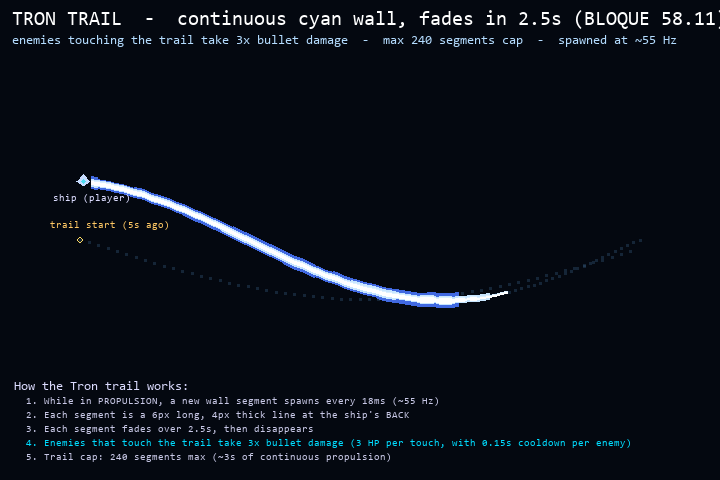
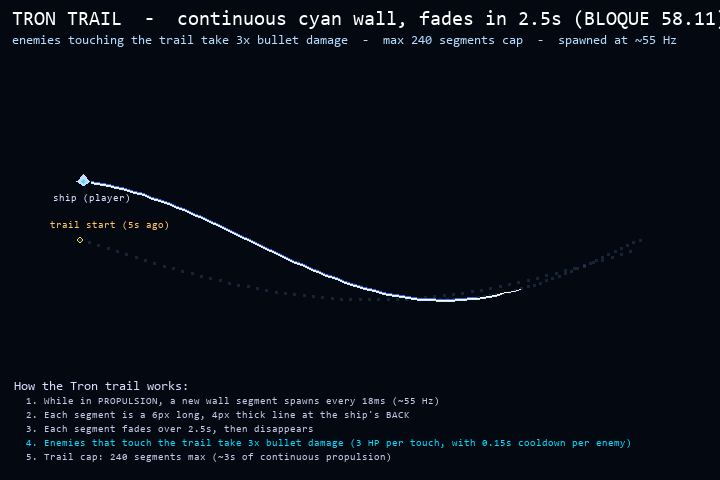
fix BLOQUE 58.31: Tron trail ultra-thin (1-2 px) matching laser thickness

Changed region(s): [[0.1222, 0.375, 0.7028, 0.6562]]

diff --git a/src/systems/tron_trail.py b/src/systems/tron_trail.py
@@ -1,24 +1,23 @@
-"""BLOQUE 58.11 + 58.22 + 58.24 + 58.25 + 58.27 + 58.28 + 58.29 + 58.30: Tron-style light trail for the player PROPULSION.
+"""BLOQUE 58.11 + 58.22 + 58.24 + 58.25 + 58.27 + 58.28 + 58.29 + 58.30 + 58.31: Tron-style light trail for the player PROPULSION.
 
 When the player enters PROPULSION state, the ship leaves a continuous
 glowing wall behind it (think Tron lightcycle / drift_loud reference).
 
-BLOQUE 58.30: blue-white neon tube.
-  The user wanted the trail to look like the yellow line in their
-  reference screenshot — a thin neon line where:
-    - The OUTER EDGES of the line are ROYAL BLUE
-    - The CENTER of the line is WHITE-HOT
-    - Smooth gradient from blue (edges) to white (center)
-  This is the classic "neon tube / plasma beam" look — like a glass
-  tube with white-hot plasma inside and a blue glass shell. The
-  per-layer colors are:
-    GLOW (outermost): royal blue (65, 105, 225)
-    HALO:             blue-white
-    BODY:             light cyan-white
-    CORE (innermost): pure white
+BLOQUE 58.31: trail thickness matches the LASER (1-2 px core, 2-3 px glow).
+  The user pointed out the trail was still thicker than the continuous
+  laser the ship fires. Looking at the laser: it's a 1 px white core
+  with a 2-3 px soft cyan glow. Very thin.
+  Fix: dropped the multi-streak (was ±2 px offsets) and reduced
+  every layer width:
+    CORE: 1 px (single-pixel bright white line)
+    BODY: 1 px (slightly more visible due to higher alpha)
+    HALO: 2 px (soft cyan-white)
+    GLOW: 3 px (royal blue, soft)
+  Total visible width: 3 px (matching the laser). The cross-section
+  gradient is preserved: royal blue (outer) -> white (center).
   Plus a "head bloom" of bright white at the very tip.
 
-BLOQUE 58.29 history: thin trail (matching engine fire thickness).
+BLOQUE 58.30: blue-white neon tube.
   BLOQUE 58.28 went too far in the opposite direction: it made the
   trail a THICK puff (core=4, body=8, halo=16, glow=24) thinking the
   user wanted a thick beam. The user actually wanted a THIN line
@@ -322,25 +321,17 @@ class TronTrail:
     ) -> None:
         """Render the trail to the target surface.
 
-        BLOQUE 58.30: blue + white neon-tube beam.
-
-        The user wants a thin line (BLOQUE 58.29) with a
-        CROSS-SECTION gradient:
-          - Outer edges of the line: ROYAL BLUE
-          - Center of the line: WHITE
-          - Smooth gradient blue -> white from outside in
-        Like a glass tube with white-hot plasma inside and a blue
-        glass shell. Each layer has a fixed color from the
-        gradient (no longitudinal shift anymore):
-          GLOW (outermost, widest,  dimmest): royal blue
-          HALO:                                blue-white
-          BODY:                                light cyan-white
-          CORE (innermost, thinnest, brightest): white
-
-        The fade with life is still steep (life^1.5..2.0) so the
-        tail dissolves quickly. Multi-streak is preserved but
-        tight (offsets +/- 1 and +/- 2 px) so the line stays
-        narrow.
+        BLOQUE 58.31: ultra-thin beam (matches the laser thickness).
+        The user wanted the trail to be AS THIN AS the laser
+        (1-2 px white core, 2-3 px soft glow). Dropped the
+        multi-streak entirely and reduced all widths:
+          CORE: 1 px
+          BODY: 1 px
+          HALO: 2 px
+          GLOW: 3 px
+        The cross-section gradient is preserved (royal blue
+        outside, white inside), but the line is now the same
+        thickness as the continuous laser.
         """
         if len(self.segments) < 1:
             return
@@ -357,145 +348,65 @@ class TronTrail:
         if not pts:
             return
 
-        # -----------------------------------------------------------------
-        # Multi-streak: 5 thin parallel lines with small perpendicular offsets
-        # -----------------------------------------------------------------
-        # BLOQUE 58.29: tight offsets to keep the line NARROW.
-        # BLOQUE 58.30: tighter (1 px) so the blue/white gradient
-        # reads clearly through the line.
-        streak_configs = [
-            (-2.0, 0.25, 1.0),  # far-left ghost (very faint, royal blue)
-            (-1.0, 0.5,  1.0),  # left ghost
-            ( 0.0, 1.0,  1.0),  # center bright streak (white)
-            (+1.0, 0.5,  1.0),  # right ghost
-            (+2.0, 0.25, 1.0),  # far-right ghost (very faint, royal blue)
-        ]
-
-        def _draw_pass(
-            width: int,
-            base_alpha: float,
-            life_curve_power: float,
-            color: tuple[int, int, int],
-            width_expand: float = 0.0,
+        def _draw_line(
+            x1: int, y1: int, x2: int, y2: int,
+            width: int, color: tuple[int, int, int],
+            alpha: int, life_curve_power: float, avg_life: float,
         ) -> None:
-            """Draw one "pass" (a layer of the neon beam) across all streaks.
+            """Draw one polyline segment with the given color/alpha.
 
-            Args:
-                width: base line width in px.
-                base_alpha: peak alpha at life=1.
-                life_curve_power: alpha is multiplied by life^power.
-                color: the RGB color for THIS layer (per the blue->white
-                       cross-section gradient).
-                width_expand: how much the width GROWS as life decreases.
+            The alpha is already computed; we just draw.
             """
-            for perp_off, alpha_mult, width_mult in streak_configs:
-                for i in range(len(pts) - 1):
-                    x1, y1, a1 = pts[i]
-                    x2, y2, a2 = pts[i + 1]
-                    avg_life = (a1 + a2) * 0.5
-                    life_width = 1.0 + (1.0 - avg_life) * width_expand
-                    actual_width = max(1, int(width * life_width * width_mult))
-                    life_factor = avg_life ** life_curve_power
-                    alpha = int(min(255.0, base_alpha * life_factor * alpha_mult))
-                    if alpha < 2:
-                        continue
-                    if perp_off != 0.0:
-                        dx = x2 - x1
-                        dy = y2 - y1
-                        seg_len = math.hypot(dx, dy)
-                        if seg_len > 0.01:
-                            perp_x = -dy / seg_len
-                            perp_y = dx / seg_len
-                            ox1 = int(perp_x * perp_off)
-                            oy1 = int(perp_y * perp_off)
-                            ox2 = ox1
-                            oy2 = oy1
-                        else:
-                            ox1 = oy1 = ox2 = oy2 = 0
-                    else:
-                        ox1 = oy1 = ox2 = oy2 = 0
-                    try:
-                        pygame.draw.line(
-                            target,
-                            (color[0], color[1], color[2], alpha),
-                            (x1 + ox1, y1 + oy1),
-                            (x2 + ox2, y2 + oy2),
-                            actual_width,
-                        )
-                    except TypeError:
-                        pygame.draw.line(
-                            target,
-                            color,
-                            (x1 + ox1, y1 + oy1),
-                            (x2 + ox2, y2 + oy2),
-                            actual_width,
-                        )
+            if alpha < 2:
+                return
+            try:
+                pygame.draw.line(
+                    target,
+                    (color[0], color[1], color[2], alpha),
+                    (x1, y1), (x2, y2),
+                    width,
+                )
+            except TypeError:
+                pygame.draw.line(target, color, (x1, y1), (x2, y2), width)
 
-        # BLOQUE 58.30: cross-section blue -> white gradient.
-        # GLOW is the OUTERMOST layer -> royal blue.
-        # CORE is the INNERMOST layer -> pure white.
-        # Each layer has a fixed color (no longitudinal shift).
-        _draw_pass(width=8, base_alpha=22, life_curve_power=1.5,
-                   color=self.color_edge, width_expand=1.2)   # royal blue glow
-        _draw_pass(width=5, base_alpha=45, life_curve_power=1.6,
-                   color=self.color_mid, width_expand=0.7)    # blue-white halo
-        _draw_pass(width=3, base_alpha=110, life_curve_power=1.7,
-                   color=(220, 240, 255), width_expand=0.3)    # light cyan-white body
-        _draw_pass(width=2, base_alpha=180, life_curve_power=2.0,
-                   color=self.color_core, width_expand=0.0)   # white core
+        # BLOQUE 58.31: 4 passes, NO multi-streak. The widths match
+        # the continuous laser (1-2 px core, 2-3 px glow).
+        for i in range(len(pts) - 1):
+            x1, y1, a1 = pts[i]
+            x2, y2, a2 = pts[i + 1]
+            avg_life = (a1 + a2) * 0.5
+            # Pass 1: GLOW (3 px, royal blue)
+            _draw_line(x1, y1, x2, y2, 3, self.color_edge,
+                       int(min(255.0, 30 * (avg_life ** 1.5))), 1.5, avg_life)
+            # Pass 2: HALO (2 px, blue-white)
+            _draw_line(x1, y1, x2, y2, 2, self.color_mid,
+                       int(min(255.0, 60 * (avg_life ** 1.6))), 1.6, avg_life)
+            # Pass 3: BODY (1 px, light cyan-white)
+            _draw_line(x1, y1, x2, y2, 1, (220, 240, 255),
+                       int(min(255.0, 150 * (avg_life ** 1.7))), 1.7, avg_life)
+            # Pass 4: CORE (1 px, pure white)
+            _draw_line(x1, y1, x2, y2, 1, self.color_core,
+                       int(min(255.0, 220 * (avg_life ** 2.0))), 2.0, avg_life)
 
         # -----------------------------------------------------------------
-        # Head bloom: tight white burst at the very tip
+        # Head bloom: tiny bright burst at the very tip
         # -----------------------------------------------------------------
-        # The head is the "newest" segment — where the engine is
-        # currently emitting. We add a small bright white bloom so
-        # the head feels like a fresh light source.
+        # The head is the newest segment. A 2 px white pixel and
+        # a 1 px white center, matching the laser's tip glow.
         head_x, head_y, head_life = pts[-1]
         if head_life > 0.4:
             bloom_alpha = int(min(255.0, 220.0 * (head_life - 0.4) / 0.6))
             if bloom_alpha > 5:
                 try:
-                    # Outer blue glow (4 px)
-                    pygame.draw.circle(
-                        target,
-                        (self.color_edge[0], self.color_edge[1], self.color_edge[2],
-                         int(bloom_alpha * 0.4)),
-                        (head_x, head_y),
-                        4,
-                    )
-                    # Bright white center (2 px)
+                    # White center (1 px) — matching the laser head
                     pygame.draw.circle(
                         target,
                         (255, 255, 255, bloom_alpha),
                         (head_x, head_y),
-                        2,
-                    )
-                except TypeError:
-                    pygame.draw.circle(target, self.color_edge, (head_x, head_y), 4)
-                    pygame.draw.circle(target, (255, 255, 255), (head_x, head_y), 2)
-
-        # -----------------------------------------------------------------
-        # Sparkle particles: tiny white stars along the trail
-        # -----------------------------------------------------------------
-        # BLOQUE 58.30: small white sparkles along the line (like
-        # the "stars" in the reference image). They fade with the
-        # segment life.
-        if len(pts) > 4:
-            step = max(1, len(pts) // 8)
-            for i in range(2, len(pts) - 1, step):
-                sx, sy, sl = pts[i]
-                if sl < 0.2:
-                    continue
-                spark_alpha = int(min(255.0, 180.0 * sl))
-                try:
-                    pygame.draw.circle(
-                        target,
-                        (255, 255, 255, spark_alpha),
-                        (sx, sy),
                         1,
                     )
                 except TypeError:
-                    pygame.draw.circle(target, (255, 255, 255), (sx, sy), 1)
+                    pygame.draw.circle(target, (255, 255, 255), (head_x, head_y), 1)
 
     def check_enemy_collision(
         self,
